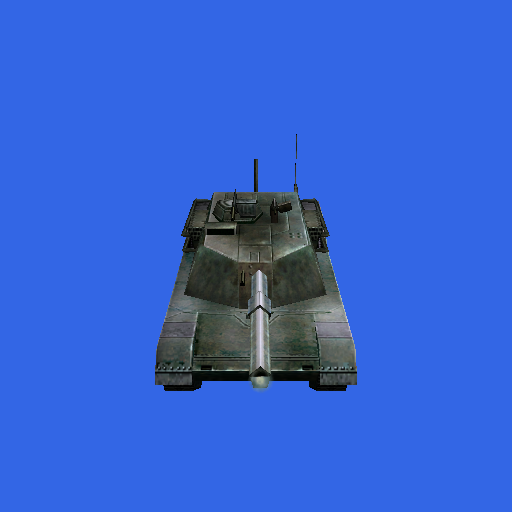
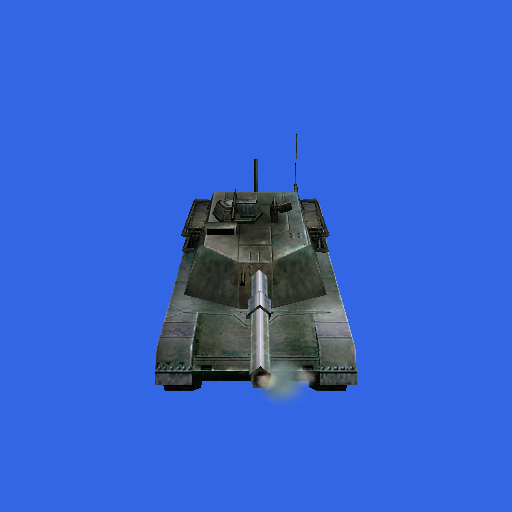
fix: use tank muzzle scale and expand particle reference proofs

Changed region(s): [[0.4688, 0.6875, 0.625, 0.7812]]

diff --git a/src/Panopticon.Tools.TestHarness/Ee2ParticleProofScenario.cs b/src/Panopticon.Tools.TestHarness/Ee2ParticleProofScenario.cs
@@ -55,8 +55,8 @@ internal static class Ee2ParticleProofScenario
     private const float CaptureFieldOfViewRadians = MathF.PI / 4f;
 
     /// <summary>
-    /// C4h capture plan: each DDF-bound proof effect at 0.0 s, 0.5 s, and
-    /// 1.0 s. Frame 0000 is the first emitted burst (one 30 Hz tick), not an
+    /// C4h capture plan includes early bursts and later smoke/spray frames.
+    /// Frame 0000 is the first emitted burst (one 30 Hz tick), not an
     /// empty spawn.
     /// </summary>
     public static readonly (string EffectName, float TimeSeconds, string Check)[] CapturePlan =
@@ -64,6 +64,8 @@ internal static class Ee2ParticleProofScenario
         ("fx_explosion_1", 0f,
             "first burst just emitted: two tiny bright additive spark clusters at the world " +
             "origin (grow-from-zero keeps the first tick's quads small)"),
+        ("fx_explosion_1", 0.1f, "early expanding explosion for muzzle-size reference"),
+        ("fx_explosion_1", 0.2f, "early fireball before the late smoke frames"),
         ("fx_explosion_1", 0.5f,
             "additive fireball ~180 px wide at the origin with a rim of ~10-20 px sparks; " +
             "first system (0.5 s lifetime) already dead, second system at full intensity"),
@@ -73,6 +75,10 @@ internal static class Ee2ParticleProofScenario
         ("fx_muzzle_tank", 0f,
             "main battle tank at the fixed three-quarter yaw; the first burst's puffs are " +
             "sub-pixel because every muzzle system grows from size zero"),
+        ("fx_muzzle_tank", 1f / 30f, "second simulation tick: initial muzzle growth"),
+        ("fx_muzzle_tank", 0.1f, "early muzzle burst using the tank's Muzzle_FiringShell scale 0.09"),
+        ("fx_muzzle_tank", 0.2f, "early muzzle emission before the late smoke samples"),
+        ("fx_muzzle_tank", 0.3f, "transition from early emission to lingering muzzle smoke"),
         ("fx_muzzle_tank", 0.5f,
             "alpha-blended muzzle puffs just beyond the barrel end, using the firing tag's " +
             "model-local forward offset"),
@@ -81,6 +87,8 @@ internal static class Ee2ParticleProofScenario
         ("fx_watersplash_1", 0f,
             "single small seed quad (~20 px) at the fixed splash origin: the first particle " +
             "of the 15/s column system"),
+        ("fx_watersplash_1", 0.1f, "early splash seed and initial growth for reference"),
+        ("fx_watersplash_1", 0.2f, "early water spray before the late emission systems start"),
         ("fx_watersplash_1", 0.5f,
             "centered spray column of alpha-blended, feathered quads; no opaque square " +
             "around the spray"),
@@ -99,6 +107,12 @@ internal static class Ee2ParticleProofScenario
     internal static int GetEffectSeed(string effectName)
     {
         return ParticleSystemUtility.ComputeDeterministicSeed("c4h-particle-proof:" + effectName, 0);
+    }
+
+    internal static Matrix4x4 RemoveDuplicateAttachmentScale(Matrix4x4 emitterTransform, float worldScale)
+    {
+        // Materialization already scales emitter motion; the resolver also prefixes that scale.
+        return emitterTransform * Matrix4x4.CreateScale(1f / worldScale);
     }
 
     /// <summary>Camera distance for the world-spawn effects; muzzle frames fit the tank bounds.</summary>
@@ -200,7 +214,7 @@ internal static class Ee2ParticleProofScenario
         {
             // First execution of the particle material path after device
             // creation is unstable; warm one identical frame per effect.
-            var warmUpPath = Path.Combine(Path.GetTempPath(), $"ee2-particle-proof-warmup-{binding.EffectName}.png");
+            var warmUpPath = Path.Combine(Path.GetTempPath(), $"ee2-particle-proof-warmup-{Environment.ProcessId}-{binding.EffectName}.png");
             CaptureFrame(
                 game,
                 loadContext,
@@ -239,11 +253,13 @@ internal static class Ee2ParticleProofScenario
                 "Every capture comes from ZipFileSystem(graphics.zip + textures.zip) ->",
                 "NifFile.Read -> NifParticleEffectConverter -> ImportedParticleEffectMaterializer ->",
                 "FXParticleSystemTemplate -> Scene3D.ParticleSystemManager -> RenderPipeline particle",
-                "bucket. DDF world scales (explosion 0.005, splash 0.15) are baked into template",
+                "bucket. DDF world scales (explosion 0.005, tank muzzle 0.09, splash 0.15) are baked into template",
                 "sizes, speeds, and emitter volumes because the runtime does not scale particle",
                 "quad sizes by the world matrix. Muzzle frames render lhm13_mainbattletank through",
                 "the C4 model pipeline with the smoke following its tag_muzzle_1 firing tag via the",
                 "follow-matrix overload; explosion and splash frames spawn at the world origin.",
+                "Tank muzzle source: heavy_mounted1.ddf HeavyMounted1_13.ChildNames references",
+                "Muzzle_FiringShell in visual_fx_weapon.ddf, using fx_muzzle_tank.nif at scale 0.09.",
                 "Frame 0000 is the first emitted burst (one 30 Hz tick), not an empty spawn; each",
                 "frame replays from t=0 under ParticleSystemUtility.BeginSeedScope seeded from the",
                 "effect key, so a second run must produce identical frames. No EE2 asset is copied",
@@ -349,9 +365,12 @@ internal static class Ee2ParticleProofScenario
             default,
             TimeInterval.Zero);
 
+        var orbit = Environment.GetEnvironmentVariable("EE2_PARTICLE_PROOF_SIDE_VIEW") == "1"
+            ? CaptureOrbitRadians + MathF.PI / 2f
+            : CaptureOrbitRadians;
         var offset = new Vector3(
-            MathF.Cos(CaptureElevationRadians) * MathF.Cos(CaptureOrbitRadians),
-            MathF.Cos(CaptureElevationRadians) * MathF.Sin(CaptureOrbitRadians),
+            MathF.Cos(CaptureElevationRadians) * MathF.Cos(orbit),
+            MathF.Cos(CaptureElevationRadians) * MathF.Sin(orbit),
             MathF.Sin(CaptureElevationRadians)) * cameraDistance;
         scene.Camera.SetLookAt(cameraTarget + offset, cameraTarget, Vector3.UnitZ);
         scene.Camera.FieldOfView = CaptureFieldOfViewRadians;
@@ -366,7 +385,8 @@ internal static class Ee2ParticleProofScenario
                 if (muzzlePlan?.FollowMatrix is { } follow)
                 {
                     var composed = new ComposedFollowSource();
-                    created.Add(manager.Create(system.Template, composed.Bind(system.EmitterTransform, follow)));
+                    created.Add(manager.Create(system.Template, composed.Bind(
+                        RemoveDuplicateAttachmentScale(system.EmitterTransform, binding.WorldScale), follow)));
                 }
                 else
                 {

diff --git a/test/Panopticon.Tools.ReplaySketch.Tests/Ee2ParticleProofScenarioTests.cs b/test/Panopticon.Tools.ReplaySketch.Tests/Ee2ParticleProofScenarioTests.cs
@@ -40,20 +40,28 @@ public sealed class Ee2ParticleProofScenarioTests
     }
 
     [Fact]
-    public void CapturePlanCoversThreeEffectsAtThreeTimes()
+    public void CapturePlanCoversEarlyBurstsAndLateReferenceFrames()
     {
         var plan = Ee2ParticleProofScenario.CapturePlan;
-        Assert.Equal(9, plan.Length);
+        Assert.Equal(17, plan.Length);
 
         var expected = new (string EffectName, float TimeSeconds)[]
         {
             ("fx_explosion_1", 0f),
+            ("fx_explosion_1", 0.1f),
+            ("fx_explosion_1", 0.2f),
             ("fx_explosion_1", 0.5f),
             ("fx_explosion_1", 1f),
             ("fx_muzzle_tank", 0f),
+            ("fx_muzzle_tank", 1f / 30f),
+            ("fx_muzzle_tank", 0.1f),
+            ("fx_muzzle_tank", 0.2f),
+            ("fx_muzzle_tank", 0.3f),
             ("fx_muzzle_tank", 0.5f),
             ("fx_muzzle_tank", 1f),
             ("fx_watersplash_1", 0f),
+            ("fx_watersplash_1", 0.1f),
+            ("fx_watersplash_1", 0.2f),
             ("fx_watersplash_1", 0.5f),
             ("fx_watersplash_1", 1f),
         };
@@ -113,6 +121,20 @@ public sealed class Ee2ParticleProofScenarioTests
         Assert.NotEqual(
             Ee2ParticleProofScenario.GetEffectSeed("fx_muzzle_tank"),
             Ee2ParticleProofScenario.GetEffectSeed("fx_watersplash_1"));
+    }
+
+    [Fact]
+    public void FollowCompositionAppliesWorldScaleOnceAndPreservesBoneOffset()
+    {
+        const float scale = 0.09f;
+        var emitter = System.Numerics.Matrix4x4.CreateScale(scale)
+            * System.Numerics.Matrix4x4.CreateTranslation(2, 0, 0);
+        var follow = System.Numerics.Matrix4x4.CreateScale(scale)
+            * System.Numerics.Matrix4x4.CreateTranslation(3, 0, 0)
+            * System.Numerics.Matrix4x4.CreateTranslation(10, 0, 0);
+        var composed = Ee2ParticleProofScenario.RemoveDuplicateAttachmentScale(emitter, scale) * follow;
+        Assert.True(MathF.Abs(composed.M11 - scale) < 0.00001f);
+        Assert.True(MathF.Abs(composed.Translation.X - 15f) < 0.00001f);
     }
 
     [Fact]

diff --git a/test/Panopticon.Simulation.Tests/Content/Importing/Ee2ParticleEffectInventoryTests.cs b/test/Panopticon.Simulation.Tests/Content/Importing/Ee2ParticleEffectInventoryTests.cs
@@ -327,4 +327,33 @@ public sealed class Ee2ParticleEffectInventoryTests
             imported.Skeleton.Bones,
             bone => string.Equals(bone.Name, "muzzle", StringComparison.OrdinalIgnoreCase));
     }
+
+    [Fact]
+    public void MuzzleProofUsesTheMainBattleTankDdfEffectAndScale()
+    {
+        using var database = new ZipFileSystem(Path.Combine(InstallRoot(), "zips/db.zip"));
+        string ReadDdf(string path)
+        {
+            using var stream = database.GetFile(path)!.Open();
+            using var reader = new StreamReader(stream);
+            return reader.ReadToEnd();
+        }
+
+        var units = ReadDdf("db/Units/heavy_mounted1.ddf");
+        var start = units.IndexOf("UnitModel HeavyMounted1_13", StringComparison.Ordinal);
+        Assert.True(start >= 0);
+        var end = units.IndexOf("UnitModel", start + "UnitModel".Length, StringComparison.Ordinal);
+        var tank = end < 0 ? units[start..] : units[start..end];
+        Assert.Contains("LHM13_MainBattleTank.NIF", tank);
+        Assert.Contains("Muzzle_FiringShell", tank);
+
+        var weapons = ReadDdf("db/Visuals/visual_fx_weapon.ddf");
+        var effect = System.Text.RegularExpressions.Regex.Match(
+            weapons, @"MuzzleSmokeEffect\s+Muzzle_FiringShell\s*\{([^}]*)\}").Groups[1].Value;
+        Assert.Contains("fx_muzzle_tank.NIF", effect);
+        Assert.Matches(@"EffectScale\s*=\s*0\.09\b", effect);
+        var binding = NifParticleEffectBinding.GetProofBindings().Single(b => b.EffectName == "fx_muzzle_tank");
+        Assert.Equal(0.09f, binding.WorldScale);
+        Assert.Contains("Muzzle_FiringShell", binding.DdfSource);
+    }
 }

diff --git a/src/Panopticon.Simulation/Content/Importing/Nif/NifParticleEffectBinding.cs b/src/Panopticon.Simulation/Content/Importing/Nif/NifParticleEffectBinding.cs
@@ -145,9 +145,9 @@ public sealed class NifParticleEffectBinding
                 targetBoneName: "tag_muzzle_1",
                 followTarget: true,
                 localOffset: Vector3.Zero,
-                worldScale: 0.05f,
+                worldScale: 0.09f,
                 oneShot: false,
-                ddfSource: "db/Visuals/visual_fx_weapon.ddf:Muzzle_Fortress12.MuzzleSmokeEffect",
+                ddfSource: "db/Visuals/visual_fx_weapon.ddf:Muzzle_FiringShell.MuzzleSmokeEffect",
                 // This proof model's firing tag is 2.7 model units inside the barrel end.
                 boneLocalOffset: new Vector3(3f, 0f, 0f)),
             new NifParticleEffectBinding(

diff --git a/test/Panopticon.Simulation.Tests/Content/Importing/NifParticleEffectAttachmentResolverTests.cs b/test/Panopticon.Simulation.Tests/Content/Importing/NifParticleEffectAttachmentResolverTests.cs
@@ -213,8 +213,8 @@ public class NifParticleEffectAttachmentResolverTests
         Assert.Equal(new Vector3(3, 0, 0), muzzle.BoneLocalOffset);
         Assert.True(muzzle.FollowTarget);
         Assert.False(muzzle.OneShot);
-        Assert.Equal("db/Visuals/visual_fx_weapon.ddf:Muzzle_Fortress12.MuzzleSmokeEffect", muzzle.DdfSource);
-        Assert.Equal(0.05f, muzzle.WorldScale);
+        Assert.Equal("db/Visuals/visual_fx_weapon.ddf:Muzzle_FiringShell.MuzzleSmokeEffect", muzzle.DdfSource);
+        Assert.Equal(0.09f, muzzle.WorldScale);
 
         var splash = bindings[2];
         Assert.Equal("fx_watersplash_1", splash.EffectName);

diff --git a/src/Panopticon.Tools.TestHarness/ee2-particle-proof/validation_guide.md b/src/Panopticon.Tools.TestHarness/ee2-particle-proof/validation_guide.md
@@ -3,11 +3,13 @@
 Every capture comes from ZipFileSystem(graphics.zip + textures.zip) ->
 NifFile.Read -> NifParticleEffectConverter -> ImportedParticleEffectMaterializer ->
 FXParticleSystemTemplate -> Scene3D.ParticleSystemManager -> RenderPipeline particle
-bucket. DDF world scales (explosion 0.005, splash 0.15) are baked into template
+bucket. DDF world scales (explosion 0.005, tank muzzle 0.09, splash 0.15) are baked into template
 sizes, speeds, and emitter volumes because the runtime does not scale particle
 quad sizes by the world matrix. Muzzle frames render lhm13_mainbattletank through
 the C4 model pipeline with the smoke following its tag_muzzle_1 firing tag via the
 follow-matrix overload; explosion and splash frames spawn at the world origin.
+Tank muzzle source: heavy_mounted1.ddf HeavyMounted1_13.ChildNames references
+Muzzle_FiringShell in visual_fx_weapon.ddf, using fx_muzzle_tank.nif at scale 0.09.
 Frame 0000 is the first emitted burst (one 30 Hz tick), not an empty spawn; each
 frame replays from t=0 under ParticleSystemUtility.BeginSeedScope seeded from the
 effect key, so a second run must produce identical frames. No EE2 asset is copied
@@ -25,11 +27,19 @@ hardware Vulkan drivers can otherwise apply the per-item inline updates after
 the draws that read them (stale world matrices on some meshes).
 
 - `fx_explosion_1-particle-0000.png`: first burst just emitted: two tiny bright additive spark clusters at the world origin (grow-from-zero keeps the first tick's quads small)
+- `fx_explosion_1-particle-0100.png`: early expanding explosion for muzzle-size reference
+- `fx_explosion_1-particle-0200.png`: early fireball before the late smoke frames
 - `fx_explosion_1-particle-0500.png`: additive fireball ~180 px wide at the origin with a rim of ~10-20 px sparks; first system (0.5 s lifetime) already dead, second system at full intensity
 - `fx_explosion_1-particle-1000.png`: dissipating smoke ring ~260 px at half the peak intensity; second system's particles (1 s lifetime, emission stop 0.225 s) in their final frames
 - `fx_muzzle_tank-particle-0000.png`: main battle tank at the fixed three-quarter yaw; the first burst's puffs are sub-pixel because every muzzle system grows from size zero
+- `fx_muzzle_tank-particle-0033.png`: second simulation tick: initial muzzle growth
+- `fx_muzzle_tank-particle-0100.png`: early muzzle burst using the tank's Muzzle_FiringShell scale 0.09
+- `fx_muzzle_tank-particle-0200.png`: early muzzle emission before the late smoke samples
+- `fx_muzzle_tank-particle-0300.png`: transition from early emission to lingering muzzle smoke
 - `fx_muzzle_tank-particle-0500.png`: alpha-blended muzzle puffs just beyond the barrel end, using the firing tag's model-local forward offset
 - `fx_muzzle_tank-particle-1000.png`: translucent puffs beyond the barrel tip, without opaque square edges
 - `fx_watersplash_1-particle-0000.png`: single small seed quad (~20 px) at the fixed splash origin: the first particle of the 15/s column system
+- `fx_watersplash_1-particle-0100.png`: early splash seed and initial growth for reference
+- `fx_watersplash_1-particle-0200.png`: early water spray before the late emission systems start
 - `fx_watersplash_1-particle-0500.png`: centered spray column of alpha-blended, feathered quads; no opaque square around the spray
 - `fx_watersplash_1-particle-1000.png`: column larger and brighter than 0500: the late systems (emission start 0.5 s, lifetimes up to 2.67 s) are now dominant and still growing

diff --git a/docs/screenshots.md b/docs/screenshots.md
@@ -36,11 +36,16 @@ cp /tmp/panopticon_captures/capture_0100.png "/mnt/pit2/Network Storage/temp/sho
 
 ## EE2 particle attachment diagnostics
 
-`Ee2ParticleProof` writes nine frames to `ee2-particle-proof/` under the working directory.
+`Ee2ParticleProof` writes 17 frames to `ee2-particle-proof/` under the working directory,
+including early muzzle samples at 0.033, 0.1, 0.2, and 0.3 seconds.
 Both `CNC_GENERALS_PATH` and `EMPIRE_EARTH_II_PATH` must resolve installed games.
 `EE2_PARTICLE_PROOF_HIDE_MODEL=1` omits the tank draw while retaining the same camera,
 bone attachment, and particle seed. Run this diagnostic from a separate working directory
 to preserve the composited proofs. Compare matching muzzle frames to isolate barrel occlusion.
+`EE2_PARTICLE_PROOF_SIDE_VIEW=1` rotates the camera orbit 90 degrees for a side-angle reference.
+The muzzle binding uses the tank's `Muzzle_FiringShell` DDF entry at scale `0.09`.
+Capture timestamps are nonuniform. Reference GIF frame durations follow timestamp differences,
+with a final-frame pause. Filename order alone does not imply a constant frame rate.
 
 ## Recipe: 3D scene screenshots (headless, reliable)
 
